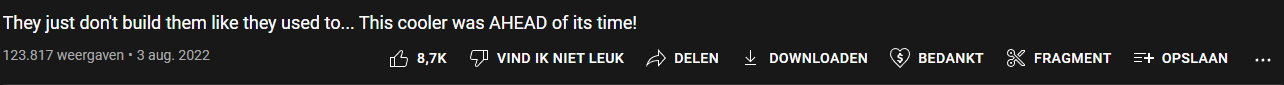
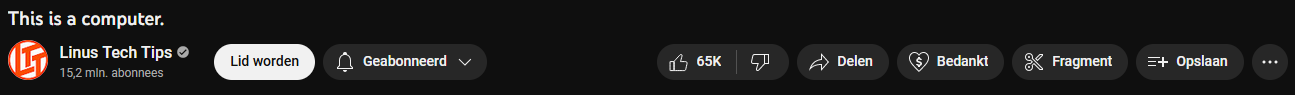
Update for new layout and script

diff --git a/README.md b/README.md
@@ -1,5 +1,5 @@
 # YouTube Declutter
-Removes some buttons under a video.\
+Removes the 'Join', 'Donate', 'Thank' & 'Clip' buttons below the video player. \
 Language support:
 - English
 - Dutch
@@ -23,4 +23,4 @@ On:\
 
 # Installation
 To run this script, you need [TamperMonkey](https://www.tampermonkey.net/) or an alternative.\
-Install my script [here](https://greasyfork.org/en/scripts/445165-youtube-declutter).
+Install my script [here](https://greasyfork.org/en/scripts/458983-youtube-declutter-revamped).
